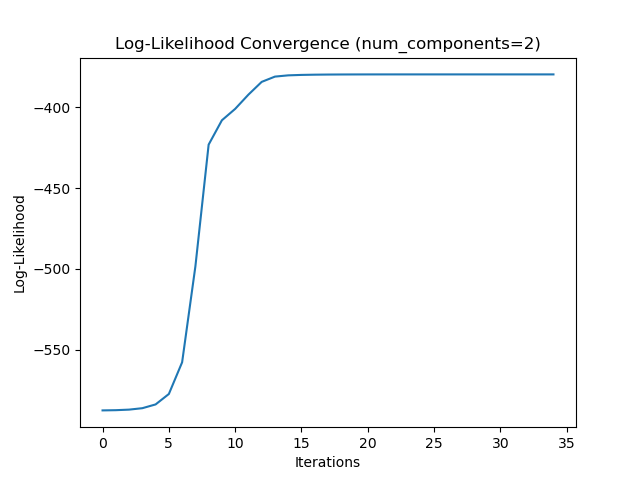
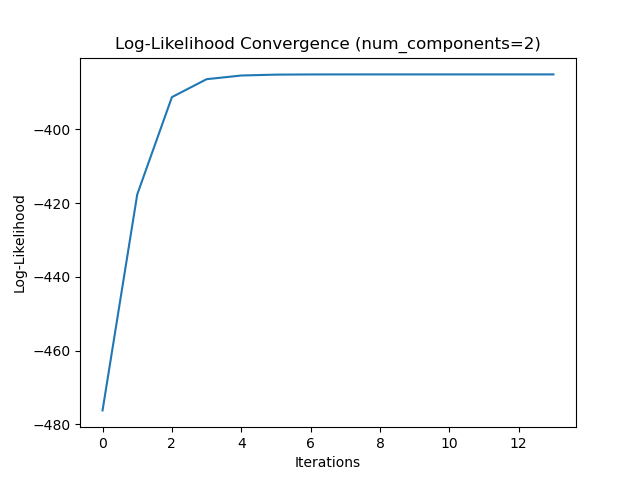
ベクトルの初期化条件を変更

diff --git a/ch3/gmm_model.py b/ch3/gmm_model.py
@@ -9,10 +9,25 @@ class GMM:
 
     def initialize_parameters(self, data):
         N, D = data.shape
-        indices = np.random.choice(N, self.num_components, replace=False)
-        self.means = data[indices]
-        self.covariances = np.array([np.eye(D) for _ in range(self.num_components)])
-        self.weights = np.ones(self.num_components) / self.num_components
+        # データの最小値と最大値を使って、範囲内にランダムな点を生成
+        min_vals = np.min(data, axis=0)
+        max_vals = np.max(data, axis=0)
+        self.means = np.random.uniform(low=min_vals, high=max_vals, size=(self.num_components, D))
+        
+        # --- 対角共分散行列を初期化（各成分の分散をランダムに設定）---
+        data_cov = np.cov(data, rowvar=False)  # データの共分散行列を求める
+        init_variances = np.diag(data_cov)  # 対角成分を取得（データの各成分の分散）
+        self.covariances = np.array([
+            np.diag(np.random.uniform(0.5 * init_variances, 1.5 * init_variances)) 
+            for _ in range(self.num_components)
+        ])
+        
+         # --- ランダムに重みを生成し、正規化する ---
+        random_weights = np.random.rand(self.num_components)
+        self.weights = random_weights / np.sum(random_weights)  # 和が1になるように正規化
+        
+
+        
 
     def e_step(self, data):
         N, D = data.shape
